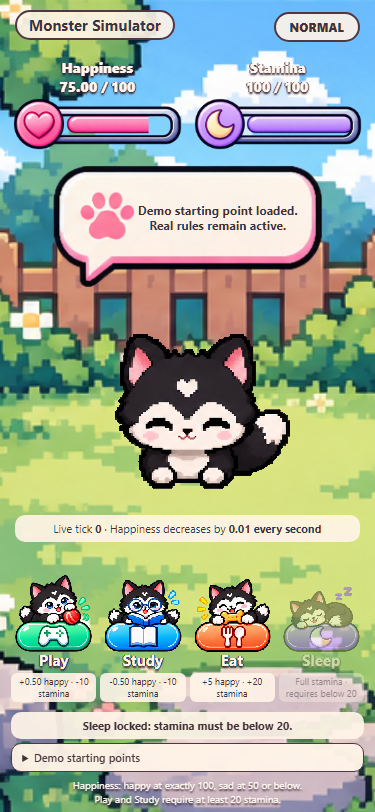
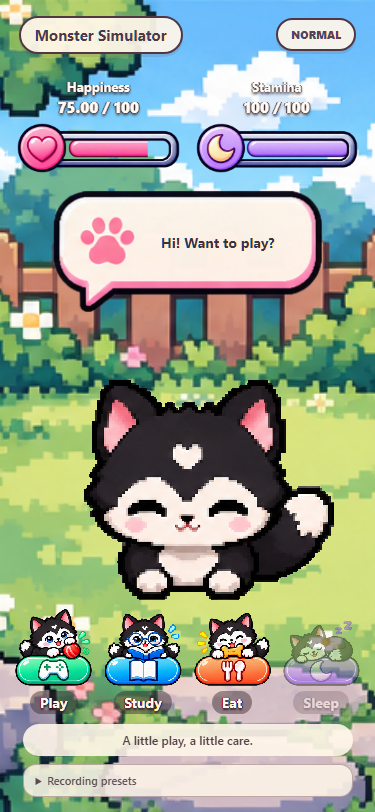
style(game): simplify care controls and polish the layout

diff --git a/style.css b/style.css
@@ -1,9 +1,37 @@
-:root{font-family:system-ui,sans-serif;color:#443039;background:#29212b}*{box-sizing:border-box}body{margin:0}main{position:relative;width:min(100%,480px);height:854px;min-height:100svh;margin:0 auto;background:url('assets/garden.png') center/cover;overflow:hidden}header{position:absolute;top:10px;left:0;right:0;text-align:center}h1{display:inline-block;margin:0;padding:3px 12px;border-radius:20px;font-size:17px;background:#fff4e8e8;border:2px solid #513744}.meters{position:absolute;top:58px;left:3%;right:3%;display:grid;grid-template-columns:1fr 1fr;gap:8px;z-index:2}label{position:relative;display:block;text-align:center;font-size:14px;font-weight:800;color:#fff7ed;text-shadow:0 2px 2px #39212d,1px 0 #39212d,-1px 0 #39212d}strong{display:block;font-size:14px;font-variant-numeric:tabular-nums}.meter-art{display:block;position:relative;width:100%;aspect-ratio:496/160}.meter-frame{position:absolute;width:100%;inset:0}.meter-fill{position:absolute;width:65.73%;height:43.75%;left:30.44%;top:28.13%;object-fit:fill}progress{position:absolute;width:1px;height:1px;opacity:0}.room{position:absolute;inset:0;pointer-events:none}.mood{position:absolute;top:165px;left:50%;transform:translateX(-50%);padding:5px 14px;border-radius:30px;background:#fff4e8e8;border:2px solid #513744;font-weight:800;font-size:12px}body[data-mood=happy] .mood{background:#ffe28c}body[data-mood=sad] .mood{background:#c9dbf2}#pet{position:absolute;top:32%;left:50%;transform:translateX(-50%);width:76%;height:36%;object-fit:contain;image-rendering:pixelated}#bubble{position:absolute;top:23.8%;left:13%;width:74%;min-height:76px;margin:0;background:url('assets/speech_bubble.png') center/100% 100% no-repeat;padding:20px 17px 20px 64px;text-align:center;display:flex;align-items:center;justify-content:center;font-size:14px;font-weight:700;line-height:1.25}.decay{position:absolute;top:70%;left:4%;right:4%;margin:0;padding:6px;text-align:center;border-radius:10px;background:#fff4e8e8;font-size:11px}.actions{position:absolute;bottom:110px;left:3%;right:3%;display:grid;grid-template-columns:repeat(4,1fr);gap:4px}button{font:inherit;color:#fff7ed;border:0;background:none;cursor:pointer;padding:0;text-shadow:0 2px 2px #39212d,1px 0 #39212d,-1px 0 #39212d}button img{display:block;width:100%;aspect-ratio:1;object-fit:contain;image-rendering:pixelated;transition:transform .12s}button:hover:enabled img{transform:translateY(-3px)}button:active:enabled img{transform:scale(.94)}button:focus-visible{outline:3px solid #fff2ba;outline-offset:2px;border-radius:10px}button:disabled{opacity:.42;cursor:not-allowed}button b{display:block;font-size:15px;margin-top:-7px}button small{display:block;font-size:9px;line-height:1.4;margin-top:3px}#restriction{position:absolute;bottom:73px;left:3%;right:3%;margin:0;background:#fff4e8ee;padding:6px;border-radius:10px;text-align:center;font-size:11px;font-weight:700}details{position:absolute;bottom:40px;left:3%;right:3%;z-index:5;font-size:11px;background:#fff4e8f5;border:1px solid #513744;border-radius:10px;padding:6px 10px}summary{cursor:pointer;font-weight:600}details p{line-height:1.5}.demo{display:grid;grid-template-columns:1fr 1fr;gap:6px}.demo button{text-shadow:none;background:#f3dcc9;color:#443039;font-size:12px;padding:8px;border:1px solid #caa38c;border-radius:8px}footer{position:absolute;bottom:6px;left:0;right:0;text-align:center;color:#fff9ef;text-shadow:0 2px 2px #39212d;font-size:10px;line-height:1.35}@media(min-width:600px){main{min-height:0;margin:18px auto;border:3px solid #e1b4a1;border-radius:20px;box-shadow:0 10px 40px #130c1960}}@media(max-width:480px){main{height:max(720px,100svh)}#bubble{font-size:12px;min-height:70px;padding-left:54px}.mood{top:151px}}@media(prefers-reduced-motion:reduce){button img{transition:none}}
-
-details[open]{bottom:auto;top:43%;max-height:23%;overflow:auto}
-
-#pet{top:28%;height:33%}.decay{top:auto;bottom:270px}.actions small{background:#fff4e8e8;color:#443039;text-shadow:none;border-radius:6px;padding:2px;font-size:9px}#bubble{padding-left:78px}
-
-#bubble{padding-top:12px;padding-bottom:26px;text-align:center;justify-content:center;align-items:center;overflow-wrap:anywhere}
-
-.room{--bubble-height:min(34.406vw,165.151px)}header{text-align:left;padding-left:4%}h1{font-size:15px}.mood{top:12px;left:auto;right:4%;transform:none}#bubble{top:20%;height:auto;min-height:0;aspect-ratio:271/126;background-size:contain;padding:0 4.5% 4.5% 20.7%}#pet{top:calc(20% + var(--bubble-height));height:calc(80% - var(--bubble-height) - 310px);min-height:120px;object-fit:contain}.meter-fill{object-fit:contain}
+:root { font-family:system-ui,sans-serif; color:#443039; background:#252b26; }
+* { box-sizing:border-box; }
+body { margin:0; }
+main { position:relative; width:min(100%,480px); height:854px; min-height:100svh; margin:auto; background:url('assets/garden.png') center/cover; overflow:hidden; }
+header { position:absolute; top:16px; left:5%; }
+h1 { margin:0; padding:7px 14px; font-size:15px; font-weight:750; color:#523744; background:#fff6e9ed; border:2px solid #513744; border-radius:20px; box-shadow:0 3px 0 #51374422; }
+.meters { position:absolute; top:78px; left:4%; right:4%; display:grid; grid-template-columns:1fr 1fr; gap:12px; z-index:2; }
+label { position:relative; display:block; text-align:center; color:#fffaf3; font-size:13px; font-weight:750; text-shadow:0 2px 3px #35262a,1px 0 #35262a,-1px 0 #35262a; }
+strong { display:block; font-size:15px; font-variant-numeric:tabular-nums; margin-top:2px; }
+.meter-art { position:relative; display:block; width:100%; aspect-ratio:496/160; margin-top:4px; }
+.meter-frame { position:absolute; width:100%; inset:0; }
+.meter-fill { position:absolute; width:65.73%; height:43.75%; left:30.44%; top:28.13%; object-fit:contain; }
+progress { position:absolute; width:1px; height:1px; opacity:0; }
+.room { position:absolute; inset:0; pointer-events:none; --bubble-height:min(34.406vw,165.151px); }
+.mood { position:absolute; top:18px; right:5%; padding:7px 13px; color:#584253; background:#fff6e9ed; border:2px solid #513744; border-radius:20px; font-size:11px; font-weight:800; box-shadow:0 3px 0 #51374422; }
+body[data-mood=happy] .mood { background:#ffe28c; }
+body[data-mood=sad] .mood { background:#c9dbf2; }
+#bubble { position:absolute; top:23%; left:13%; width:74%; height:auto; aspect-ratio:271/126; margin:0; background:url('assets/speech_bubble.png') center/contain no-repeat; padding:0 4.5% 4.5% 20.7%; display:flex; align-items:center; justify-content:center; text-align:center; font-size:15px; font-weight:700; line-height:1.3; overflow-wrap:anywhere; }
+#pet { position:absolute; top:calc(23% + var(--bubble-height)); left:50%; transform:translateX(-50%); width:80%; height:calc(77% - var(--bubble-height) - 190px); min-height:120px; object-fit:contain; image-rendering:pixelated; }
+.actions { position:absolute; bottom:98px; left:3%; right:3%; display:grid; grid-template-columns:repeat(4,1fr); gap:4px; }
+button { font:inherit; cursor:pointer; border:0; background:none; padding:0; color:#fff9ef; text-shadow:0 2px 2px #39212d,1px 0 #39212d,-1px 0 #39212d; }
+button img { display:block; width:100%; aspect-ratio:1; object-fit:contain; image-rendering:pixelated; transition:transform .12s,filter .12s; }
+.actions button b { display:inline-block; padding:2px 10px; font-size:14px; font-weight:750; margin-top:-5px; border-radius:12px; background:#34272b75; }
+button:hover:enabled img { transform:translateY(-4px); filter:brightness(1.07); }
+button:active:enabled img { transform:scale(.94); }
+button:focus-visible { outline:3px solid #fff2ba; outline-offset:3px; border-radius:12px; }
+button:disabled { opacity:.42; cursor:not-allowed; }
+#restriction { position:absolute; bottom:56px; left:6%; right:6%; margin:0; padding:8px 10px; border-radius:16px; color:#503f45; background:#fff6e9e6; text-align:center; font-size:12px; font-weight:600; }
+details { position:absolute; bottom:15px; left:6%; right:6%; z-index:5; color:#5d4b50; background:#fff6e9d9; border:1px solid #72505a70; border-radius:13px; padding:8px 12px; font-size:11px; }
+summary { cursor:pointer; font-weight:600; }
+details[open] { bottom:auto; top:37%; max-height:24%; overflow:auto; background:#fff6e9fa; }
+details p { line-height:1.5; }
+.demo { display:grid; grid-template-columns:1fr 1fr; gap:6px; }
+.demo button { text-shadow:none; background:#f3dcc9; color:#443039; font-size:12px; padding:8px; border:1px solid #caa38c; border-radius:8px; }
+@media(min-width:600px) { main { min-height:0; margin:18px auto; border:3px solid #e1b4a1; border-radius:22px; box-shadow:0 10px 40px #101e1960; } }
+@media(max-width:480px) { main { height:max(720px,100svh); } #bubble { font-size:14px; } }
+@media(prefers-reduced-motion:reduce) { button img { transition:none; } }

diff --git a/index.html b/index.html
@@ -6,15 +6,15 @@
 <label>Happiness <strong id="happiness">75.00 / 100</strong><span class="meter-art happiness-art"><img class="meter-fill" src="assets/happiness_fill.png" alt=""><img class="meter-frame" src="assets/happiness_frame.png" alt=""></span><progress id="happy-bar" max="100" value="75"></progress></label>
 <label>Stamina <strong id="stamina">100 / 100</strong><span class="meter-art stamina-art"><img class="meter-fill" src="assets/energy_fill.png" alt=""><img class="meter-frame" src="assets/energy_frame.png" alt=""></span><progress id="stamina-bar" max="100" value="100"></progress></label>
 </section>
-<section class="room"><span id="mood" class="mood">NORMAL</span><img id="pet" alt="Your animated monster" src="assets/idle_01.png"><p id="bubble" aria-live="polite">Hello! Let's spend some time together.</p></section>
-<p class="decay">Live tick <b id="ticks">0</b> · Happiness decreases by <b>0.01 every second</b></p>
+<section class="room"><span id="mood" class="mood">NORMAL</span><img id="pet" alt="Your animated monster" src="assets/idle_01.png"><p id="bubble" aria-live="polite">Hi! Want to play?</p></section>
+<output id="ticks" hidden>0</output>
 <section class="actions" aria-label="Care actions">
-<button id="play" data-action="play"><img src="assets/play.png" alt=""><b>Play</b><small>+0.50 happy · -10 stamina</small></button>
-<button id="study" data-action="study"><img src="assets/study.png" alt=""><b>Study</b><small>-0.50 happy · -10 stamina</small></button>
-<button id="eat" data-action="eat"><img src="assets/feed.png" alt=""><b>Eat</b><small>+5 happy · +20 stamina</small></button>
-<button id="sleep" data-action="sleep"><img src="assets/sleep.png" alt=""><b>Sleep</b><small>Full stamina · requires below 20</small></button>
+<button id="play" data-action="play"><img src="assets/play.png" alt=""><b>Play</b></button>
+<button id="study" data-action="study"><img src="assets/study.png" alt=""><b>Study</b></button>
+<button id="eat" data-action="eat"><img src="assets/feed.png" alt=""><b>Eat</b></button>
+<button id="sleep" data-action="sleep"><img src="assets/sleep.png" alt=""><b>Sleep</b></button>
 </section>
-<p id="restriction">Sleep unlocks only below 20 stamina.</p>
-<details><summary>Demo starting points</summary><p>These reset the starting values for recording boundary rules. Actions and decay still use the real game logic.</p><div class="demo"><button data-scenario="normal">New pet</button><button data-scenario="happy">Happy boundary: 99.50</button><button data-scenario="sad">Sad boundary: 50.50</button><button data-scenario="tired">Stamina boundary: 20</button></div></details>
-<footer>Happiness: happy at exactly 100, sad at 50 or below.<br>Play and Study require at least 20 stamina.</footer>
+<p id="restriction">A little play, a little care.</p>
+<details><summary>Recording presets</summary><p>These reset the starting values for recording boundary rules. Actions and decay still use the real game logic.</p><div class="demo"><button data-scenario="normal">New pet</button><button data-scenario="happy">Almost happy</button><button data-scenario="sad">A quiet mood</button><button data-scenario="tired">Nearly tired</button></div></details>
+
 </main><script src="model.js"></script><script src="anchors.js"></script><script src="game.js"></script></body></html>

diff --git a/game.js b/game.js
@@ -16,7 +16,7 @@ function render() {
   document.body.dataset.mood = monster.mood;
   byId('play').disabled = byId('study').disabled = !monster.canWork;
   byId('sleep').disabled = !monster.canSleep;
-  byId('restriction').textContent = monster.canSleep ? 'Stamina below 20: Play and Study locked. Sleep unlocked.' : 'Sleep locked: stamina must be below 20.';
+  byId('restriction').textContent = monster.canSleep ? 'Too tired to play or study. Ready for a nap.' : 'A little play, a little care.';
 }
 document.querySelectorAll('[data-action]').forEach(button => button.addEventListener('click', () => {
   const action = button.dataset.action;
@@ -29,7 +29,7 @@ document.querySelectorAll('[data-action]').forEach(button => button.addEventList
 document.querySelectorAll('[data-scenario]').forEach(button => button.addEventListener('click', () => {
   const values = {normal:[75,100],happy:[99.5,100],sad:[50.5,100],tired:[75,20]}[button.dataset.scenario];
   monster = new Monster(...values); nextTick = performance.now() + 1000; actionUntil = 0;
-  byId('bubble').textContent = 'Demo starting point loaded. Real rules remain active.';
+  byId('bubble').textContent = {normal:'Hi! Want to play?', happy:'One more game?', sad:'Keep me company?', tired:'I could use a little rest.'}[button.dataset.scenario];
   render();
 }));
 let lastImage = '';

diff --git a/README.md b/README.md
@@ -8,7 +8,7 @@ Play and Study work at stamina 20 but lock below 20. Sleep works only below 20. 
 
 The model stores integer hundredths to avoid floating-point drift at the exact 100 and 50 boundaries. The layout matches PocketPet: a full-height backyard, glossy action buttons, floating speech bubble and illustrated meters. Only Happiness, Stamina and the four assignment actions remain. Per-frame body centers keep the tail from shifting the pup sideways. Browser animation frames update sprites at approximately six frames per second. Game ticks are independent of animation speed.
 
-Run logic tests with `npm test` using Node.js. Demo starting points are clearly labelled and reset the initial values only; they never change the rules or decay rate. Reload starts a new pet. There is no saved progress.
+Run logic tests with `npm test` using Node.js. Recording presets are clearly labelled and reset the initial values only; they never change the rules or decay rate. Reload starts a new pet. There is no saved progress.
 
 This assignment explicitly requests a program in a language of choice; it uses its own JavaScript source instead of the previous Unity assignment's fixed scripts. The previous Unity projects are untouched. Artwork is reused from the separate PocketPet-sprites repository.
 
@@ -16,7 +16,7 @@ This assignment explicitly requests a program in a language of choice; it uses i
 
 ## Recording
 
-Open Demo starting points during your recording. Show New pet for two seconds to prove 75.00 becomes 74.98. Choose Happy boundary and immediately press Play to show 100.00 and HAPPY before the next tick. Choose Sad boundary and immediately press Study to show 50.00 and SAD. Choose Stamina boundary to show Sleep locked at 20; press Study to show stamina 10, work locked and Sleep unlocked. Press Sleep to show stamina 100 and Sleep locked again. All scenarios use the normal action validation.
+Open Recording presets during your recording. Show New pet for two seconds to prove 75.00 becomes 74.98. Choose Almost happy and immediately press Play to show 100.00 and HAPPY before the next tick. Choose A quiet mood and immediately press Study to show 50.00 and SAD. Choose Nearly tired to show Sleep locked at 20; press Study to show stamina 10, work locked and Sleep unlocked. Press Sleep to show stamina 100 and Sleep locked again. All scenarios use the normal action validation.
 
 Record and name your video `MARTINEZ_MONSTER.mp4`.
 

diff --git a/docs/DESIGN_BRIEF.md b/docs/DESIGN_BRIEF.md
@@ -3,3 +3,5 @@
 Preserve PocketPet's full-height backyard, matching glossy buttons, illustrated meters and floating speech bubble. The assignment needs two meters and four actions; these replace the eight-action care layout.
 
 Numeric values and validation text remain visible. Disabled buttons stay in place with reduced opacity. Per-frame body anchors ignore the tail width.
+
+The game surface shows action names and numeric meters without change-amount captions or visible decay instructions. Recording presets stay collapsed during normal play.

diff --git a/TODO.md b/TODO.md
@@ -15,3 +15,5 @@
 - [x] Switch the room background to the existing backyard artwork.
 
 - [x] Preserve artwork aspect ratios, including the speech bubble; crop the backyard without stretching.
+
+- [x] Remove action amount captions and visible decay instructions; polish the game layout.
